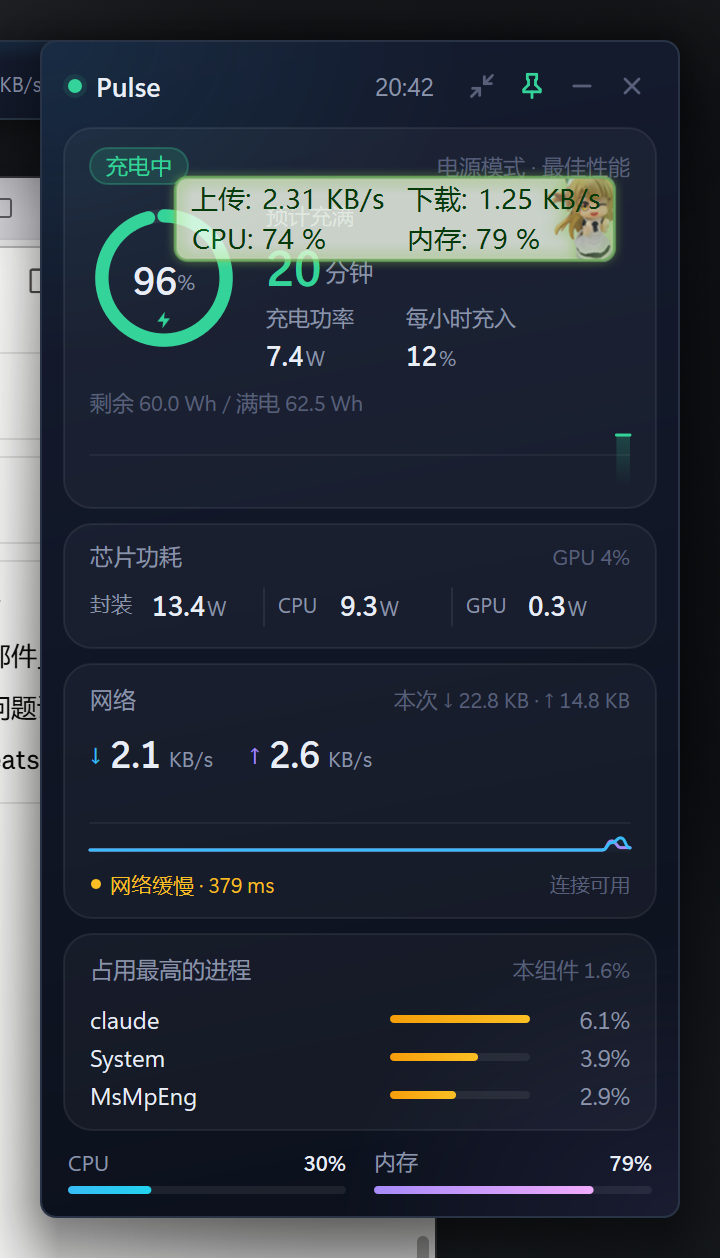
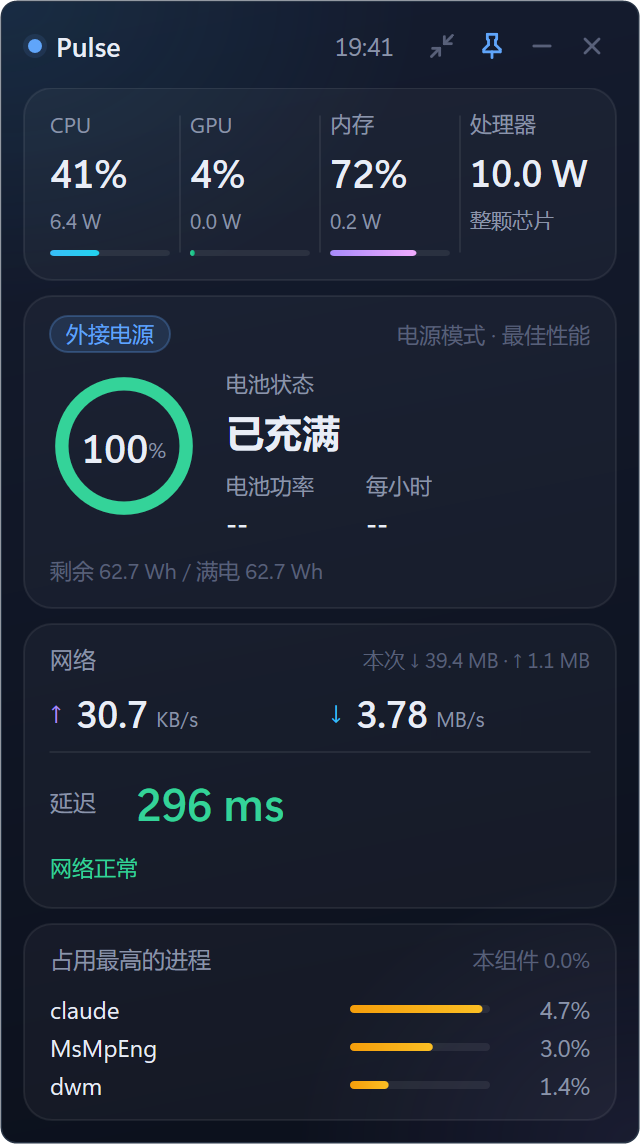
发布准备：README 更新、免责与隐私说明、GitHub Actions
- README 按当前功能重写，新增免责声明与隐私一节，修正管理员与延迟阈值等过时内容
- 更新完整模式截图，新增迷你模式截图
- 新增 build.yml（MinGW 编译 + MSVC 检查）与 release.yml（v* 标签自动打包发布）
- 新增 build_msvc.bat；忽略 dist/ 与 build-msvc/

diff --git a/README.md b/README.md
@@ -1,42 +1,64 @@
 # Pulse
 
-Pulse 是 Windows 桌面悬浮小组件：一个静态链接的 `Pulse.exe`，用原生 C++17、Win32 和 Direct2D 显示电池、功耗与网络状态。
+Pulse 是 Windows 桌面悬浮小组件：一个静态链接的 `Pulse.exe`，用原生 C++17、Win32 和 Direct2D 显示硬件、电池与网络状态。
 
 ## 功能
 
-- 电池充放电功率
-- 平滑续航预计（到 20% 的时间、拔电后的平均功耗）
-- 芯片、CPU、核显功耗
-- 网速（只统计物理网卡）
-- 真实网络延迟与断网判定
-- 断网与恢复提醒卡片
-- 进程 CPU 占用前三
-- CPU 与内存占用
-- 完整模式与迷你单行模式
-- 托盘图标
-- 开机自启
+完整模式默认自上而下显示：
+
+- 硬件四格：CPU、GPU（3D 引擎）、内存显示占用与功耗；「处理器」显示整颗芯片功耗。内存功耗来自 RAPL DRAM。
+- 电池：充放电功率、平滑续航或充满时间预计、放电到 20% 的时间、拔电后平均功耗。若启动时已在用电池，平均功耗从组件启动后计算。
+- 网络：只统计物理网卡的上下行网速，醒目显示 HTTP 延迟和断网状态。
+- 进程 CPU 占用前三，不含 Pulse 自身；组件自身占用另列。
+
+迷你模式为单行，可显示电量、续航或充满时间、充电闪电标记和外接电源标记。迷你模式的「总功耗」和完整模式的「功耗走势图」在放电时标为「整机」，显示电池放电功率；其余供电状态标为「处理器」，显示整颗芯片功耗。硬件四格的第四格始终标为「处理器」。
+
+右键窗口或托盘图标，在「显示内容」中分别设置两种模式的组件：
+
+| 模式 | 可选组件 |
+| --- | --- |
+| 完整模式 | 硬件四格、电池与充电、功耗走势图、网络、进程前三、磁盘读写速度、系统盘占用、系统信息、显存、Wi-Fi、电池健康、帧数 |
+| 迷你模式 | 电量 %、续航/充满、总功耗、CPU %、内存 %、GPU %、网速、延迟、磁盘读写、CPU 频率、FPS |
+
+可选指标只在勾选后采集，取消即停止；CPU、内存、电池、网速等基础采样和网络探测始终运行。「系统信息」包含 CPU 频率、内存已用/总量、进程数和开机时长。
+
+其他功能：
+
+- 前台程序帧数（FPS）：基于 ETW 的 DXGI/D3D9 Present 事件，需要管理员权限。勾选后若权限不足，菜单会出现「以管理员身份重启（显示帧数需要）」。部分程序可能无法读到帧数。
+- 完整模式刷新间隔可选 0.5 / 1 / 2 秒，默认 1 秒；迷你模式固定约 2 秒刷新。
+- 延迟「较慢」阈值可选 50 / 100 / 150 / 200 / 300 / 500 / 800 ms，默认 500 ms。
+- 断网与恢复提醒卡片，约 8 秒后自动淡出；鼠标悬停时暂停，移开后约 3 秒淡出。提醒和提示音可分别关闭，睡眠不算断网。
+- 界面大小 80%–200%，支持 Ctrl + 滚轮缩放。
+- 深色右键菜单、托盘图标、窗口置顶、开机自启和恢复默认组件。
 
 ## 截图
 
+完整模式：
+
 ![Pulse 完整模式](docs/screenshots/native-full.png)
+
+迷你模式：
+
+![Pulse 迷你模式](docs/screenshots/native-compact.png)
 
 ## 系统要求
 
-- Windows 10 或 Windows 11，64 位
-- 普通用户权限即可运行，不需要管理员
-- 芯片、CPU、核显功耗来自性能计数器 `\Energy Meter(*)\Power`（RAPL）。机器没有这组计数器时，这几项显示为未知，其余功能仍可用
+- Windows 10 或 Windows 11，64 位。
+- 普通用户权限即可运行；只有帧数功能需要管理员权限。
+- 硬件功耗来自性能计数器 Energy Meter（RAPL），无需管理员。完整模式优先对 `\Energy Meter(*)\Energy` 做差分，不可用时回退到 `\Energy Meter(*)\Power`；迷你模式直接使用 Power。
+- 没有这组计数器或对应实例时，相关功耗显示为未知（`--`）。内存功耗需要 DRAM 实例；电池充放电功率由 Windows 电池接口读取。
 
 ## 安装
 
 下载 zip 并解压后，运行 `scripts\install.cmd`。脚本会：
 
-1. 若 Pulse 正在运行，先退出它
-2. 把 `Pulse.exe` 复制到 `%LOCALAPPDATA%\Pulse`
-3. 创建当前用户的开始菜单快捷方式
-4. 按下面的参数决定是否创建桌面快捷方式和开机自启
-5. 启动安装后的 Pulse
+1. 若 Pulse 正在运行，先退出它。
+2. 把 `Pulse.exe` 复制到 `%LOCALAPPDATA%\Pulse`。
+3. 创建当前用户的开始菜单快捷方式。
+4. 按下面的参数决定是否创建桌面快捷方式和开机自启。
+5. 启动安装后的 Pulse。
 
-不需要管理员。也可以不解压后安装，直接双击 zip 里的 `Pulse.exe` 免安装运行。免安装时，配置仍写在 `%LOCALAPPDATA%\Pulse`。
+安装和普通运行不需要管理员，帧数功能除外。也可以解压后直接运行 `Pulse.exe`，无需安装；配置仍写在 `%LOCALAPPDATA%\Pulse`。
 
 `install.ps1` 在脚本同级和上一级查找 `Pulse.exe`。从本仓库运行时，请先编译出根目录的 `Pulse.exe`。
 
@@ -55,15 +77,15 @@ scripts\install.cmd -Desktop -Autostart
 scripts\install.cmd -Quiet
 ```
 
-开机自启写在当前用户的 `HKCU\Software\Microsoft\Windows\CurrentVersion\Run`，值名 `Pulse`，内容是带引号的 `Pulse.exe` 完整路径。这与程序托盘菜单里的「开机自启」是同一项。托盘菜单写入的是**当前正在运行的那一份**程序路径；安装脚本写入的是 `%LOCALAPPDATA%\Pulse\Pulse.exe`。
+开机自启写在当前用户的 `HKCU\Software\Microsoft\Windows\CurrentVersion\Run`，值名 `Pulse`，内容是带引号的 `Pulse.exe` 完整路径。这与程序菜单里的「开机自启」是同一项。程序菜单写入当前正在运行的那一份程序路径；安装脚本写入 `%LOCALAPPDATA%\Pulse\Pulse.exe`。
 
 ## 卸载
 
-运行 `scripts\uninstall.cmd`。脚本会退出所有名为 Pulse 的进程，删除上述 Run 值，并删除开始菜单和桌面上目标为 `Pulse.exe` 的 `Pulse.lnk`。
+运行 `scripts\uninstall.cmd`。脚本会退出所有名为 Pulse 的进程，删除上述 Run 值，并删除开始菜单和桌面上目标为 `Pulse.exe` 或已失效的 `Pulse.lnk`。
 
-窗口位置、迷你模式和置顶保存在 `%LOCALAPPDATA%\Pulse\settings.ini`。网络探测日志在 `%LOCALAPPDATA%\Pulse\pulse_net.log`。这两个文件与安装目录是同一个文件夹。`%APPDATA%`（Roaming）下没有配置文件；卸载脚本仍会检查那里是否存在同名文件。
+窗口位置、模式、置顶、显示内容、刷新间隔、界面大小、延迟较慢阈值、断网提醒和提示音设置保存在 `%LOCALAPPDATA%\Pulse\settings.ini`。网络探测和帧数诊断等日志在 `%LOCALAPPDATA%\Pulse\pulse_net.log`，与安装目录同属一个文件夹。`%APPDATA%`（漫游目录）下不写配置；卸载脚本仍会检查那里是否存在同名配置或日志。
 
-发现这些文件时，脚本会询问是否一并删除。选 Y 会删除整个 `%LOCALAPPDATA%\Pulse` 目录；选 N 则只删除 `Pulse.exe` 和快捷方式，保留配置与日志。
+发现这些文件时，脚本会询问是否一并删除。选 Y 会删除整个 `%LOCALAPPDATA%\Pulse` 目录，并清理检测到的漫游目录同名文件；选 N 只删除 `Pulse.exe` 和快捷方式，保留配置与日志。未发现配置或日志时，默认删除安装目录。
 
 | 参数 | 作用 |
 | --- | --- |
@@ -73,30 +95,51 @@ scripts\install.cmd -Quiet
 
 ## 使用说明
 
-- 拖动窗口空白处可以移动。位置会记住。
-- 双击窗口空白处，或点击模式按钮，在完整模式和迷你单行模式之间切换。迷你模式是单行。
-- 置顶按钮切换「始终置顶」。默认置顶。
-- 最小化，或左键单击托盘图标，会隐藏窗口并暂停采样；再次显示后继续采样。
-- 关闭按钮退出程序，程序不会留在托盘里继续跑。
-- 右键窗口或托盘图标：完整模式、迷你模式、窗口置顶、开机自启、打开日志、退出。
-- 断网和恢复时，屏幕角落会弹出提醒卡片。
+- 拖动窗口空白处移动，位置会保存。
+- 双击窗口空白处，或点击模式按钮，在完整模式和迷你模式之间切换。
+- 置顶按钮切换「窗口置顶」，默认开启。
+- 最小化会暂停界面采样；左键单击托盘图标可隐藏或显示窗口。隐藏时同样暂停界面采样，网络探测继续；再次显示后恢复采样。
+- 关闭按钮直接退出程序。
+- 在窗口内按 Ctrl + 滚轮，每格缩放 10 个百分点，范围为 80%–200%。内容超出屏幕时可用普通滚轮浏览。
+
+窗口和托盘共用以下右键菜单：
+
+| 菜单项 | 作用 |
+| --- | --- |
+| 完整模式 / 迷你模式 | 切换显示模式 |
+| 界面大小 | 80% / 100%（默认）/ 125% / 150% / 175% / 200% |
+| 刷新间隔 | 设置完整模式的 0.5 / 1（默认）/ 2 秒刷新间隔 |
+| 延迟较慢阈值 | 50 / 100 / 150 / 200 / 300 / 500（默认）/ 800 ms |
+| 断网提醒 | 开关断网与恢复提醒卡片，默认开启 |
+| 提醒提示音 | 单独开关提示音，默认开启；关闭断网提醒后此项不可用 |
+| 显示内容 → 完整模式 / 迷你模式 | 分别勾选组件 |
+| 显示内容 → 恢复默认 | 只恢复两种模式的默认组件勾选 |
+| 窗口置顶 | 开关置顶 |
+| 开机自启 | 开关当前用户的开机自启 |
+| 打开日志 | 打开本机日志 |
+| 以管理员身份重启（显示帧数需要） | 当前模式启用帧数且权限不足时出现 |
+| 退出 | 退出程序 |
 
 ## 网络延迟
 
-延迟用 HTTP 探测，不使用 ICMP ping。Clash TUN 等代理会让任何 ping 都返回 0 ms，这个数不能代表真实网络。Pulse 通过 WinHTTP 走系统代理访问：
+延迟通过 WinHTTP 的 HTTP 请求测量，走系统代理，不使用 ICMP ping。部分代理或 TUN 环境的 ping 结果可能不能反映实际访问延迟。探测地址为：
 
 - `http://www.msftconnecttest.com/connecttest.txt`
 - `http://www.gstatic.com/generate_204`
 - `http://connect.rom.miui.com/generate_204`
 
-主地址失败后会再请求备用地址。
+正常时约每 5 秒优先请求第一个地址，失败后并行请求两个备用地址；出现不可用结果或网卡变化后，会并行请求三个地址，以最先收到的响应头为准。不检查响应正文，也不跟随重定向。延迟按当前探测阶段计时，备用阶段不累计主地址的失败等待时间。
 
 | 结果 | 判定 |
 | --- | --- |
-| 延迟 ≥ 300 ms | 较慢 |
-| 请求失败，或延迟 ≥ 1000 ms | 记一次不可用 |
+| 请求成功，延迟 < 所选阈值 | 正常 |
+| 延迟 ≥ 所选阈值（默认 500 ms），且 < 1000 ms | 较慢 |
+| 本轮请求失败，或延迟 ≥ 1000 ms | 记一次不可用 |
 | 连续 3 次不可用 | 判定断网 |
-| 一次成功且延迟 < 1000 ms | 判定恢复 |
+| 一次请求成功且延迟 < 1000 ms | 清除失败计数；已断网时判定恢复 |
+| 所有物理网卡均断开，并通过短暂去抖确认 | 直接判定断网，无需等待 3 次 HTTP 不可用 |
+
+不可用后约每 1 秒确认，断网后约每 1.5 秒重试。物理网卡断开后，即使本地代理返回成功，也需物理连接恢复才能判定恢复。系统睡眠会暂停探测并清除断网计时；唤醒约 3 秒后重新探测。
 
 ## 从源码编译
 
@@ -112,7 +155,7 @@ PowerShell：
 & .\build.bat
 ```
 
-脚本生成静态链接的 `Pulse.exe` 和控制台自测程序 `metrics_selftest.exe`。源码是 C++17，也可以用 MSVC 编译；仓库里提供的构建脚本是面向 MinGW 的 `build.bat`。
+脚本生成静态链接的 `Pulse.exe` 和控制台自测程序 `metrics_selftest.exe`。源码为 C++17，也可用 MSVC 编译：在 x64 开发者命令提示符里运行 `build_msvc.bat`，产物在 `build-msvc\`。发布版用 MinGW 编译。
 
 打包 zip（会先调用 `build.bat`）：
 
@@ -122,20 +165,42 @@ scripts\package.cmd -NoBuild
 scripts\package.cmd -Version 1.0.0
 ```
 
-`-NoBuild` 仅在仓库根目录已经有 `Pulse.exe` 时跳过编译。未指定 `-Version` 时，从 `app.rc` 的 `FileVersion` 读取，读不到则用 `0.1.0`。输出文件为 `dist\Pulse-<版本>-win-x64.zip`，其中包含 `Pulse.exe`、本说明、`LICENSE`、`THIRD_PARTY_NOTICES.md`，以及 `scripts\` 下的安装和卸载脚本。
+`-NoBuild` 仅在仓库根目录已有 `Pulse.exe` 时跳过编译。未指定 `-Version` 时，从 `app.rc` 的 `FileVersion` 读取，读不到则用 `0.1.0`。输出为 `dist\Pulse-<版本>-win-x64.zip`，包含 `Pulse.exe`、本说明、`LICENSE`、`THIRD_PARTY_NOTICES.md` 和 `scripts\` 下的安装、卸载脚本。
+
+GitHub Actions 会在推送 `v*` 标签时自动编译并发布 Release。
 
 ## 功耗
 
-在一台 Intel Core Ultra 5 226V（Arc 130V 核显）的笔记本上，完整模式大约占用单核 0.96% CPU，内存大约 105 MB。**待更新**（迷你模式，以及后续的降功耗改动，尚未计入这组数字）。
+以下为 Intel Core Ultra 5 226V 笔记本使用电池时，按 Pulse 进程 CPU 时间折算的单核占用参考：
+
+| 模式 | CPU 占用 |
+| --- | --- |
+| 迷你模式 | 约单核 0.1%–0.3% |
+| 完整模式 | 每次刷新执行完整采集路径，约单核 0.5%–1.5% |
+
+可选指标仍受组件勾选和各自采集间隔控制。数字随机器、所选组件、刷新间隔和后台负载变化，仅供参考。
 
 ## 致谢
 
 见 [THIRD_PARTY_NOTICES.md](THIRD_PARTY_NOTICES.md)。
 
+## 免责声明与隐私
+
+- 本软件按“原样”提供，不提供任何担保；使用风险自负，作者不对使用本软件造成的任何损失负责，具体以 [LICENSE](LICENSE)（MIT）为准。
+- Pulse 读取系统性能计数器、电池、进程和网络状态等信息，除用户选择的开机自启外，不修改系统设置。正常环境下，运行时只将设置和日志写入 `%LOCALAPPDATA%\Pulse`；开关「开机自启」时写入或删除 `HKCU\Software\Microsoft\Windows\CurrentVersion\Run` 下的 `Pulse` 值。安装脚本另会复制程序并创建上述快捷方式。
+- 联网只用于测延迟，定期请求上面列出的三个探测地址，走系统代理。不通过网络收集或上传个人数据，没有统计、遥测，也没有自动更新。
+- 日志只保存在本机，不会上传。
+- 管理员权限只用于帧数功能的 ETW 会话；不需要帧数就无需管理员。
+- `Pulse.exe` 没有代码签名，首次运行可能被 Windows SmartScreen 提示，可点「更多信息 → 仍要运行」；建议只从本项目的 GitHub Releases 下载。
+
 ## 许可证
 
-[MIT License](LICENSE)。Copyright (c) 2026 yftx。
+[MIT 许可证](LICENSE)。版权所有 © 2026 yftx。
 
 ## English
 
-Pulse is a native Windows desktop widget: one statically linked `Pulse.exe` (C++17, Win32, Direct2D). It shows battery charge and discharge power, smoothed runtime (time to 20% and average power after unplug), package/CPU/iGPU power via Energy Meter (RAPL, no administrator), physical-adapter throughput, HTTP latency and offline detection, a recovery card, the top three processes by CPU, and CPU/memory usage. It has a full card, a one-line mini mode, a tray icon, and per-user startup. Windows 10/11 x64. Unzip and run `scripts\install.cmd`, or start `Pulse.exe` directly. Latency uses HTTP because proxies such as Clash TUN answer every ping with 0 ms; 300 ms is slow, a failure or 1000 ms counts as unavailable, three failures mark the link down, and one success under 1000 ms marks recovery. MIT License. Third-party notices: [THIRD_PARTY_NOTICES.md](THIRD_PARTY_NOTICES.md).
+Pulse is a native Windows 10/11 x64 desktop widget: one statically linked `Pulse.exe` built with C++17, Win32 and Direct2D. Full mode shows CPU/GPU/memory usage and power, processor package power, battery power and smoothed runtime, physical-adapter throughput, HTTP latency, and the top three processes by CPU. Mini mode is a single line with optional runtime/time-to-full and charging indicators. Both modes have separate component selections; optional collectors run only when needed, while basic sampling and network probes remain active.
+
+Hardware power uses Energy Meter (RAPL, no administrator required): full mode prefers Energy differences with a Power fallback; mini mode reads Power directly. Foreground FPS uses ETW and requires administrator privileges. Full-mode refresh is selectable at 0.5, 1 or 2 seconds. The slow-latency threshold is adjustable from the menu and defaults to 500 ms. A failed round or latency ≥ 1000 ms counts as unavailable; three consecutive unavailable rounds mark the connection offline, and one success below 1000 ms restores it. Confirmed loss of all physical adapters marks it offline directly. Sleep is excluded.
+
+Unzip and run `scripts\install.cmd`, or start `Pulse.exe` directly. Pulse supports 80%–200% zoom (Ctrl + mouse wheel), a tray icon, per-user startup, and optional offline/recovery cards and sounds. For networking, it only requests the three probe URLs listed above via the system proxy, with no telemetry or automatic updates. Settings and logs stay local. The software is provided as is, see [LICENSE](LICENSE). Third-party notices: [THIRD_PARTY_NOTICES.md](THIRD_PARTY_NOTICES.md).
